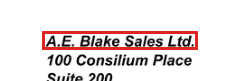
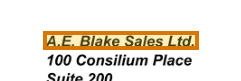
Highlight extracted regions instead of outlining them
Translucent yellow fill with an amber border, replacing the red outline.

Rendered side by side at page scale the difference is not subtle. An
outline marks a boundary, so the eye finds a line and then works out what
it encloses; a fill marks the region itself and reads instantly on a dense
page. Amber rather than red because red conventionally signals an error,
and the message here is that the value was found correctly.

Also fixes a proportion bug found while looking at this: stroke width was a
fixed 3px applied to both a 1224px page render and a 240px crop, so it was
far heavier on the crops. It is now a fraction of the image's short side.

Crops are now cut from the highlighted page rather than highlighted after
cropping, so every crop carries the same stroke weight regardless of how
large the region happens to be.

Flagged in the README: translucent yellow is obvious on a white page but
untested on a dark one. The pitch deck sample will be the first real test
and may need a second treatment.

Changed region(s): [[0.1743, 0.3704, 0.8423, 0.6173]]

diff --git a/document-types/scripts/build_images.py b/document-types/scripts/build_images.py
@@ -41,8 +41,18 @@ COLLECTION = REPO_ROOT / "document-types" / "collection"
 
 # One look across the whole library. Changing these changes every page, which is the
 # point — the images sit side by side and must not drift.
-BOX_RGB = (220, 38, 38)
-BOX_WIDTH_PX = 3
+#
+# Highlighter, not error marker: a translucent fill marks the *region* a value came
+# from, which an outline alone does not. Side by side at page scale the difference is
+# large — an outline makes the eye find a line and then work out what it encloses.
+# Amber rather than red because red reads as "something is wrong", and the message here
+# is that the value was found correctly.
+BOX_RGB = (217, 119, 6)            # amber border
+FILL_RGBA = (250, 204, 21, 70)     # translucent yellow, ~27% alpha
+# Fraction of the image's short side, not a pixel count: a fixed width is proportionally
+# far heavier on a 240px crop than on a 1200px page render.
+BOX_WIDTH_FRAC = 0.0035
+BOX_WIDTH_MIN_PX = 2
 CROP_PAD_X = 0.035          # fraction of page width added around a crop
 CROP_PAD_Y = 0.020          # fraction of page height
 RENDER_SCALE = 2.0          # 144 DPI; sharp on high-DPI screens without bloating files
@@ -132,12 +142,24 @@ def render_page(document: Path, page_number: int) -> Image.Image:
         return Image.frombytes("RGB", [pix.width, pix.height], pix.samples)
 
 
-def draw_box(img: Image.Image, box: dict) -> None:
+def stroke_width(img: Image.Image) -> int:
+    return max(BOX_WIDTH_MIN_PX, int(min(img.size) * BOX_WIDTH_FRAC))
+
+
+def highlight(img: Image.Image, xy: list[float]) -> Image.Image:
+    """Translucent fill then border. Returns a new image; alpha compositing cannot be
+    done in place on an RGB canvas."""
+    layer = Image.new("RGBA", img.size, (0, 0, 0, 0))
+    ImageDraw.Draw(layer).rectangle(xy, fill=FILL_RGBA)
+    out = Image.alpha_composite(img.convert("RGBA"), layer).convert("RGB")
+    ImageDraw.Draw(out).rectangle(xy, outline=BOX_RGB, width=stroke_width(out))
+    return out
+
+
+def draw_box(img: Image.Image, box: dict) -> Image.Image:
     w, h = img.size
-    ImageDraw.Draw(img).rectangle(
-        [box["xmin"] * w, box["ymin"] * h, box["xmax"] * w, box["ymax"] * h],
-        outline=BOX_RGB,
-        width=BOX_WIDTH_PX,
+    return highlight(
+        img, [box["xmin"] * w, box["ymin"] * h, box["xmax"] * w, box["ymax"] * h]
     )
 
 
@@ -239,28 +261,17 @@ def main() -> None:
         page_img = render_page(document, page_number)
 
         for item in items:
-            crop = crop_around(page_img, item["box"])
-            # Draw on the crop, not the page, so the stroke is not scaled down twice.
-            crop_box = item["box"]
-            w, h = page_img.size
-            offset_x = max(0.0, crop_box["xmin"] - CROP_PAD_X) * w
-            offset_y = max(0.0, crop_box["ymin"] - CROP_PAD_Y) * h
-            ImageDraw.Draw(crop).rectangle(
-                [
-                    crop_box["xmin"] * w - offset_x,
-                    crop_box["ymin"] * h - offset_y,
-                    crop_box["xmax"] * w - offset_x,
-                    crop_box["ymax"] * h - offset_y,
-                ],
-                outline=BOX_RGB,
-                width=BOX_WIDTH_PX,
-            )
+            # Highlight on the full page first, then crop, so the stroke is in page
+            # coordinates and every crop carries the same visual weight regardless of
+            # how large the region happens to be.
+            marked = draw_box(page_img, item["box"])
+            crop = crop_around(marked, item["box"])
             name = item["path"].replace(".", "-").replace("[", "-").replace("]", "")
             save(crop, images_dir / f"{name}.png")
 
-        annotated = page_img.copy()
+        annotated = page_img
         for item in items:
-            draw_box(annotated, item["box"])
+            annotated = draw_box(annotated, item["box"])
         save(annotated, images_dir / f"page-{page_number}.png", MAX_PAGE_WIDTH_PX)
 
     print(f"\nWrote {images_dir}")

diff --git a/document-types/README.md b/document-types/README.md
@@ -80,6 +80,24 @@ These documents and their extracted values go on a public website.
 Each folder's `README.md` records where its document came from and that it is cleared.
 That record travels with the document rather than living in a separate tracker.
 
+## Highlight style
+
+A translucent yellow fill with an amber border, not an outline. The fill marks the
+*region* a value came from; an outline only marks its boundary, which at page scale
+makes the eye find a line and then work out what it encloses. Amber rather than red,
+because red reads as "something is wrong" and the message is that the value was found
+correctly.
+
+Stroke width is a fraction of the image's short side rather than a pixel count, so a
+240px crop and a 1200px page render carry the same visual weight.
+
+The constants sit at the top of `build_images.py`. Changing them changes every page,
+which is the point — these images sit side by side in a library and must not drift.
+
+> **Untested on dark documents.** Translucent yellow over a white page is obvious;
+> over a dark slide it may be invisible or ugly. The pitch deck sample will be the
+> first real test, and may need a second treatment.
+
 ## Service tier and models
 
 Everything runs through the **jobs APIs at the `standard` service tier**, which costs half
